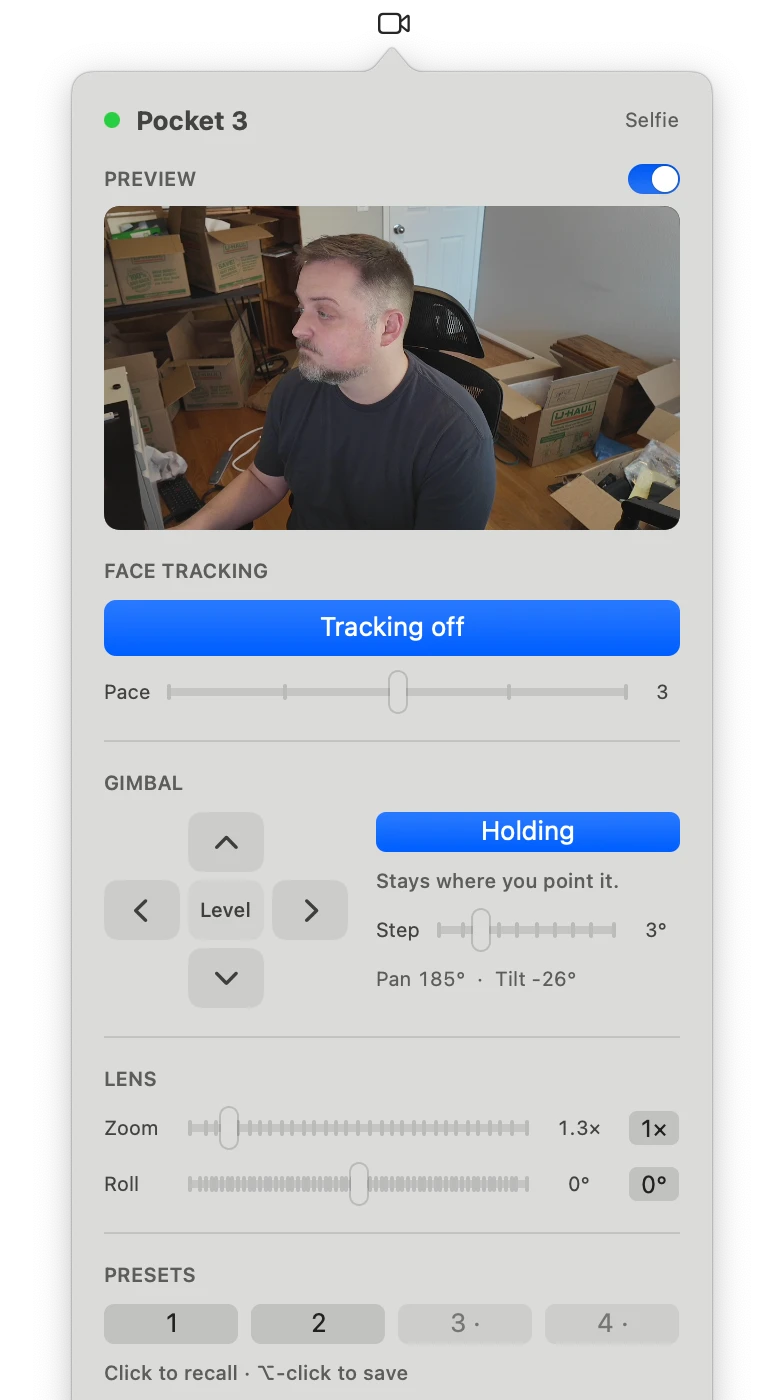
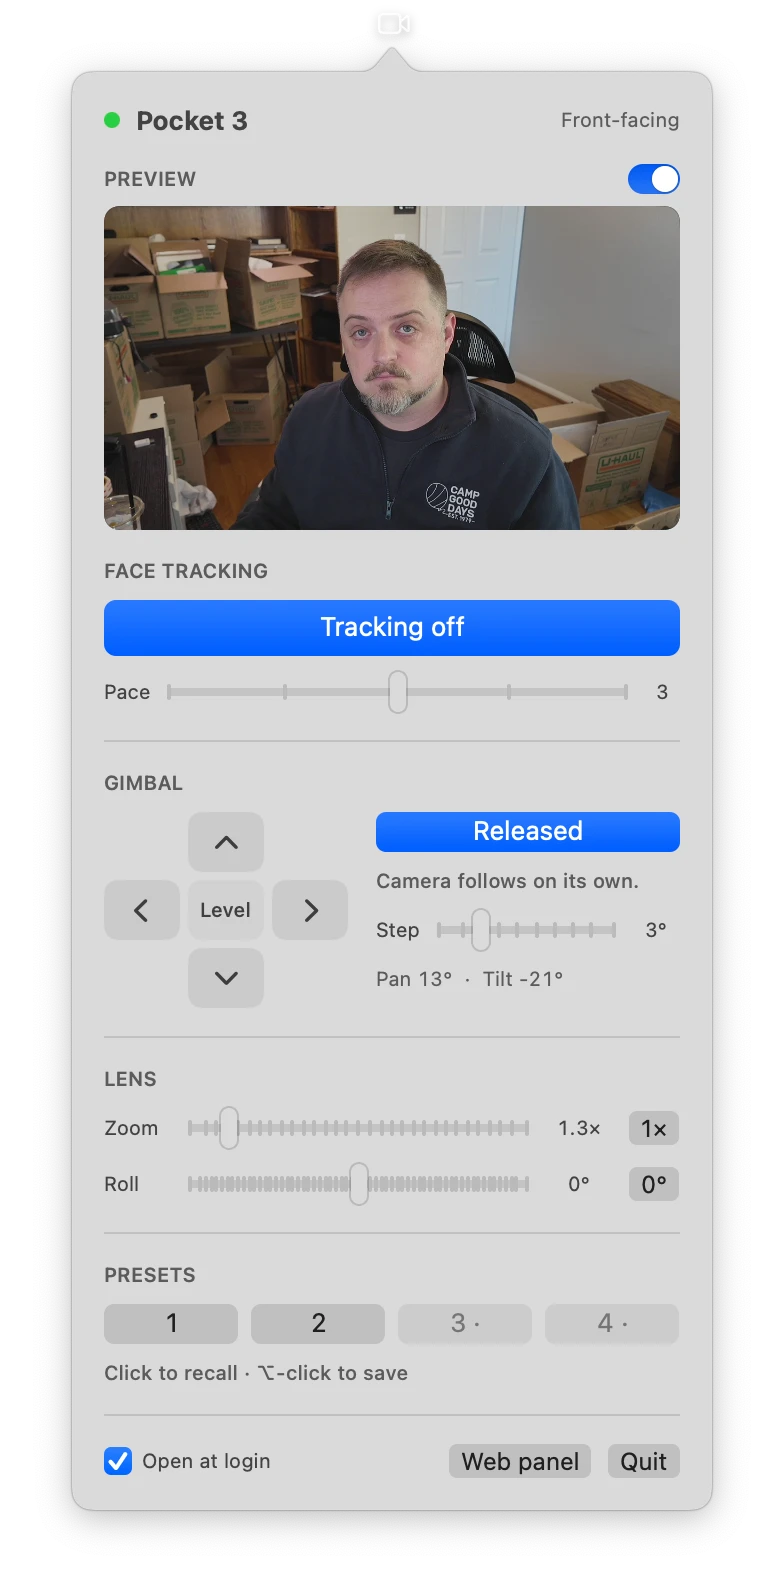
README: current screenshot of the menu

diff --git a/README.md b/README.md
@@ -6,7 +6,7 @@ It uses only the camera's standard USB webcam (UVC) controls. No DJI software, n
 
 > Not affiliated with or endorsed by DJI. Built by vibe coding with Claude, and tested on one Pocket 3 and one Mac. Treat it as a hobby project.
 
-<p align="center"><img src="docs/images/menu.png" width="392" alt="The Pocket3Bar menu: live preview, face tracking, gimbal d-pad with Hold, zoom and roll sliders, and presets"></p>
+<p align="center"><img src="docs/images/menu.png" width="392" alt="The Pocket3Bar menu: live preview, face tracking, gimbal d-pad with Hold and Release, zoom and roll sliders, presets, and Open at login"></p>
 
 ## Features
 
